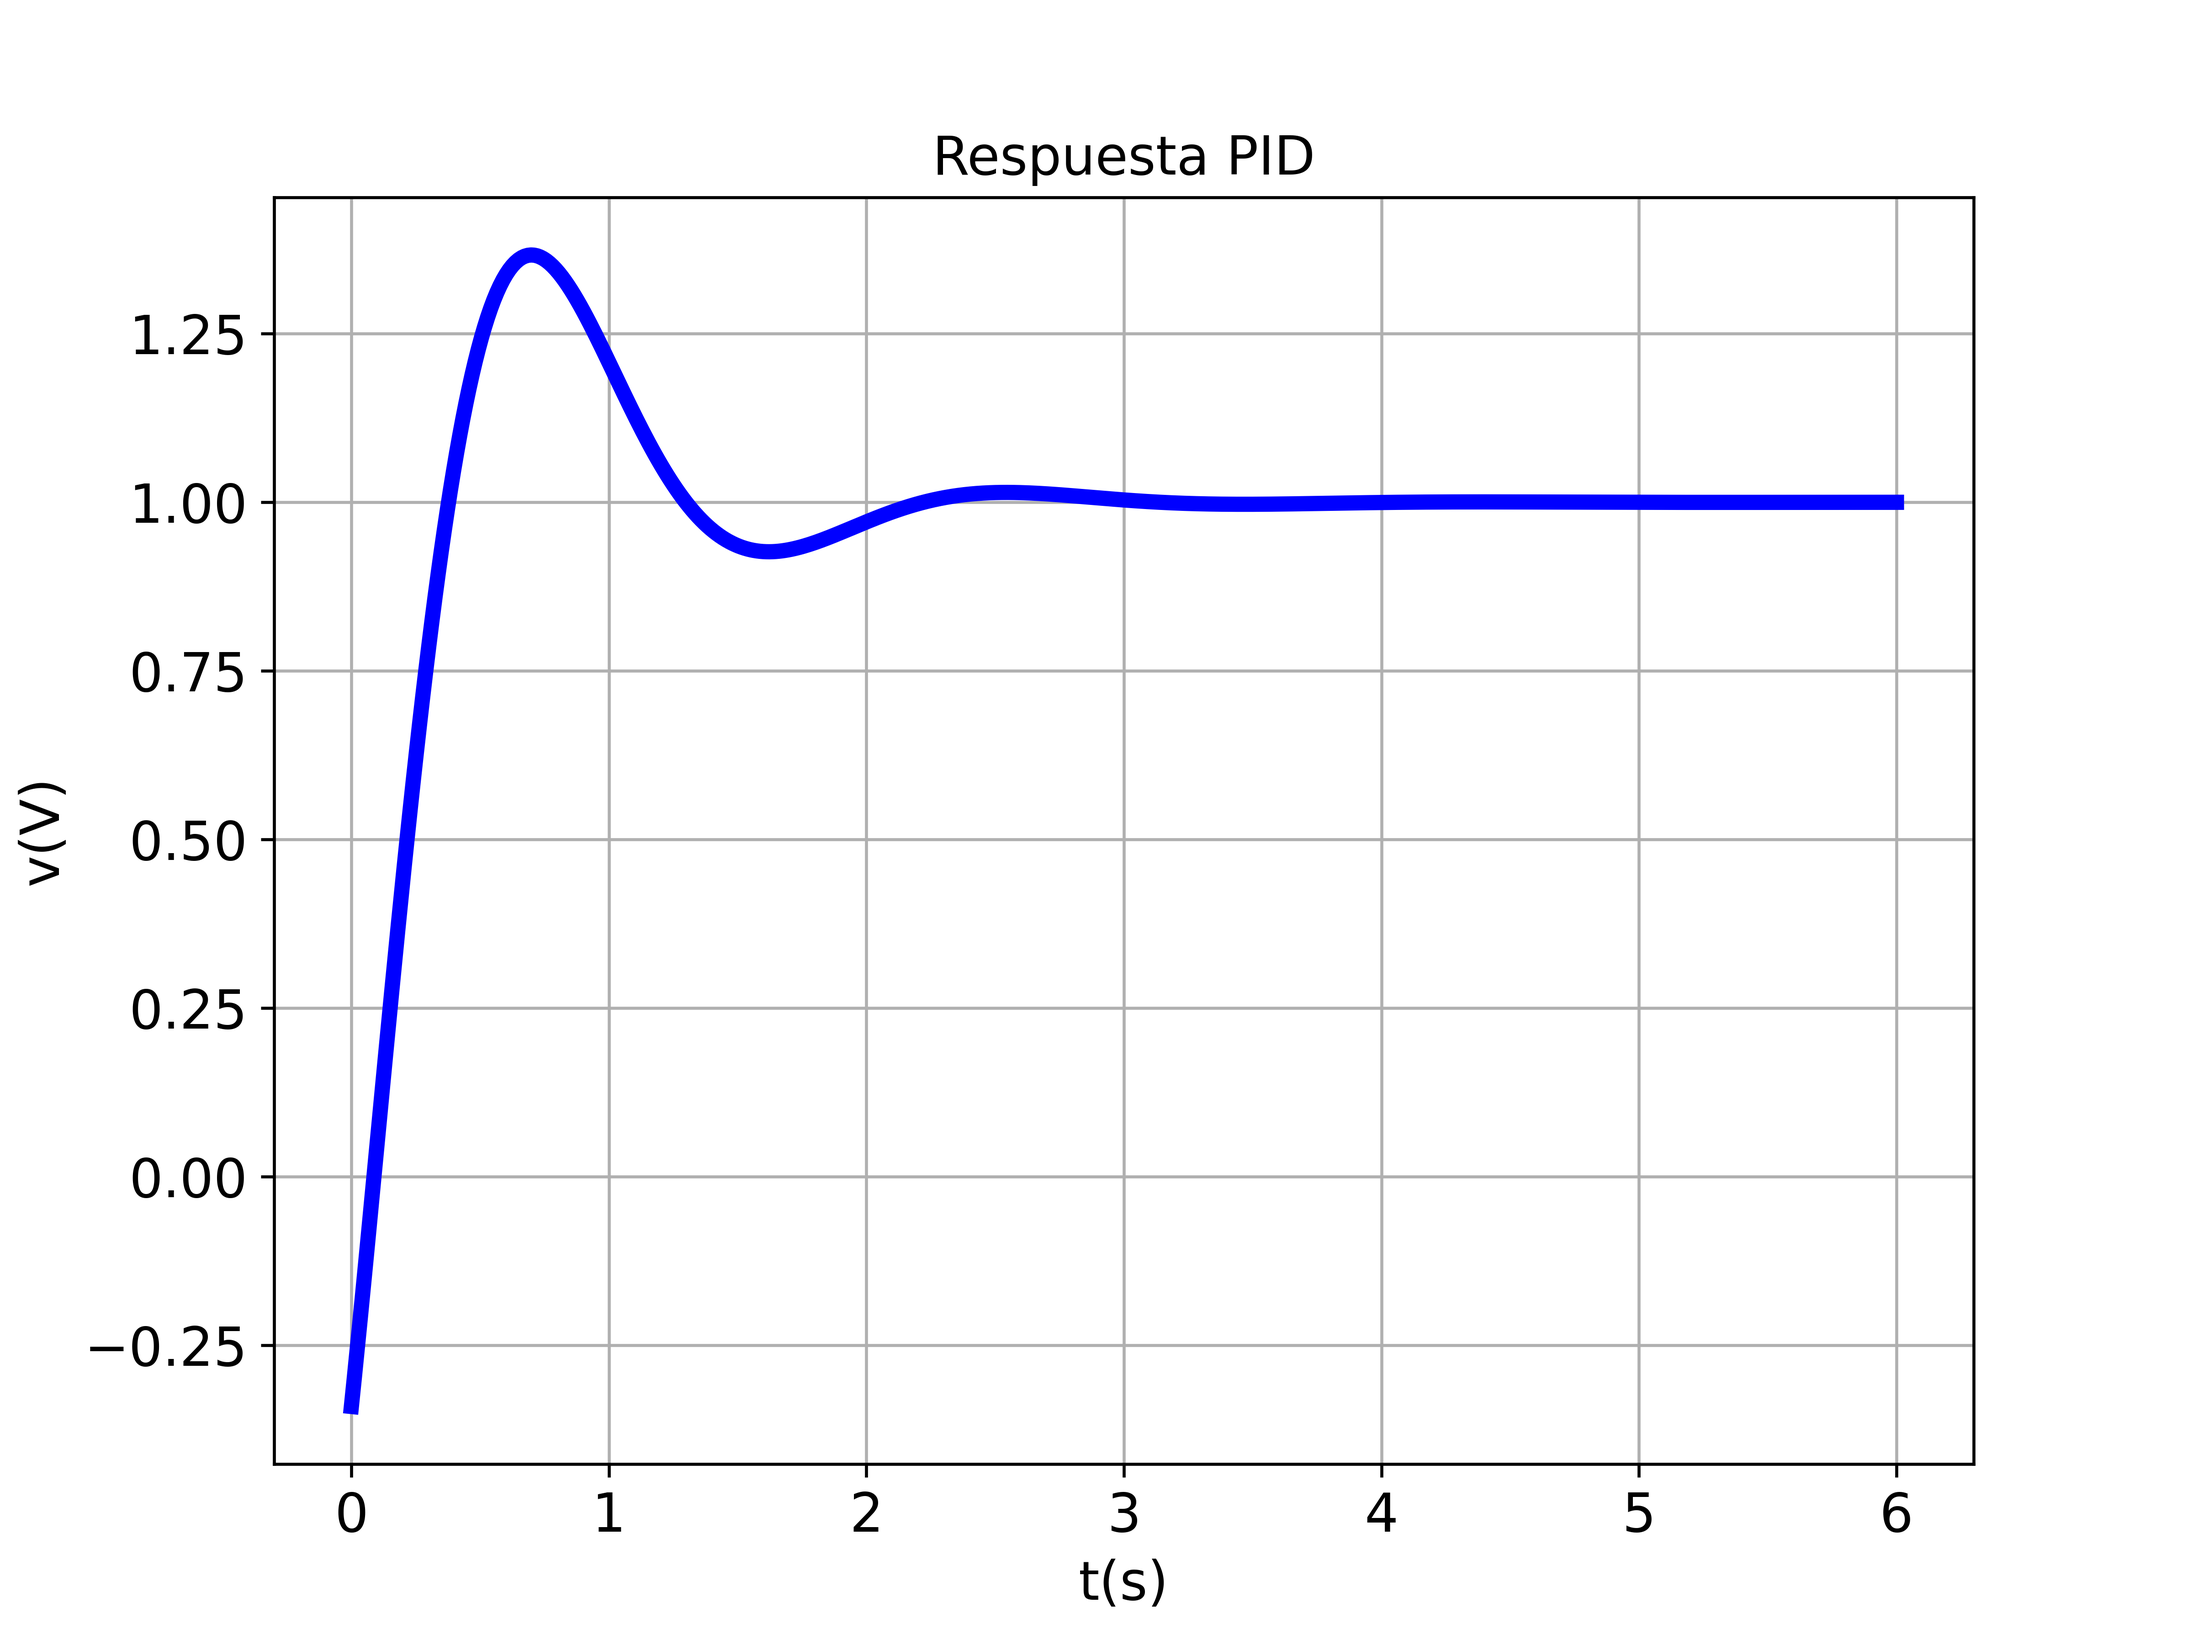
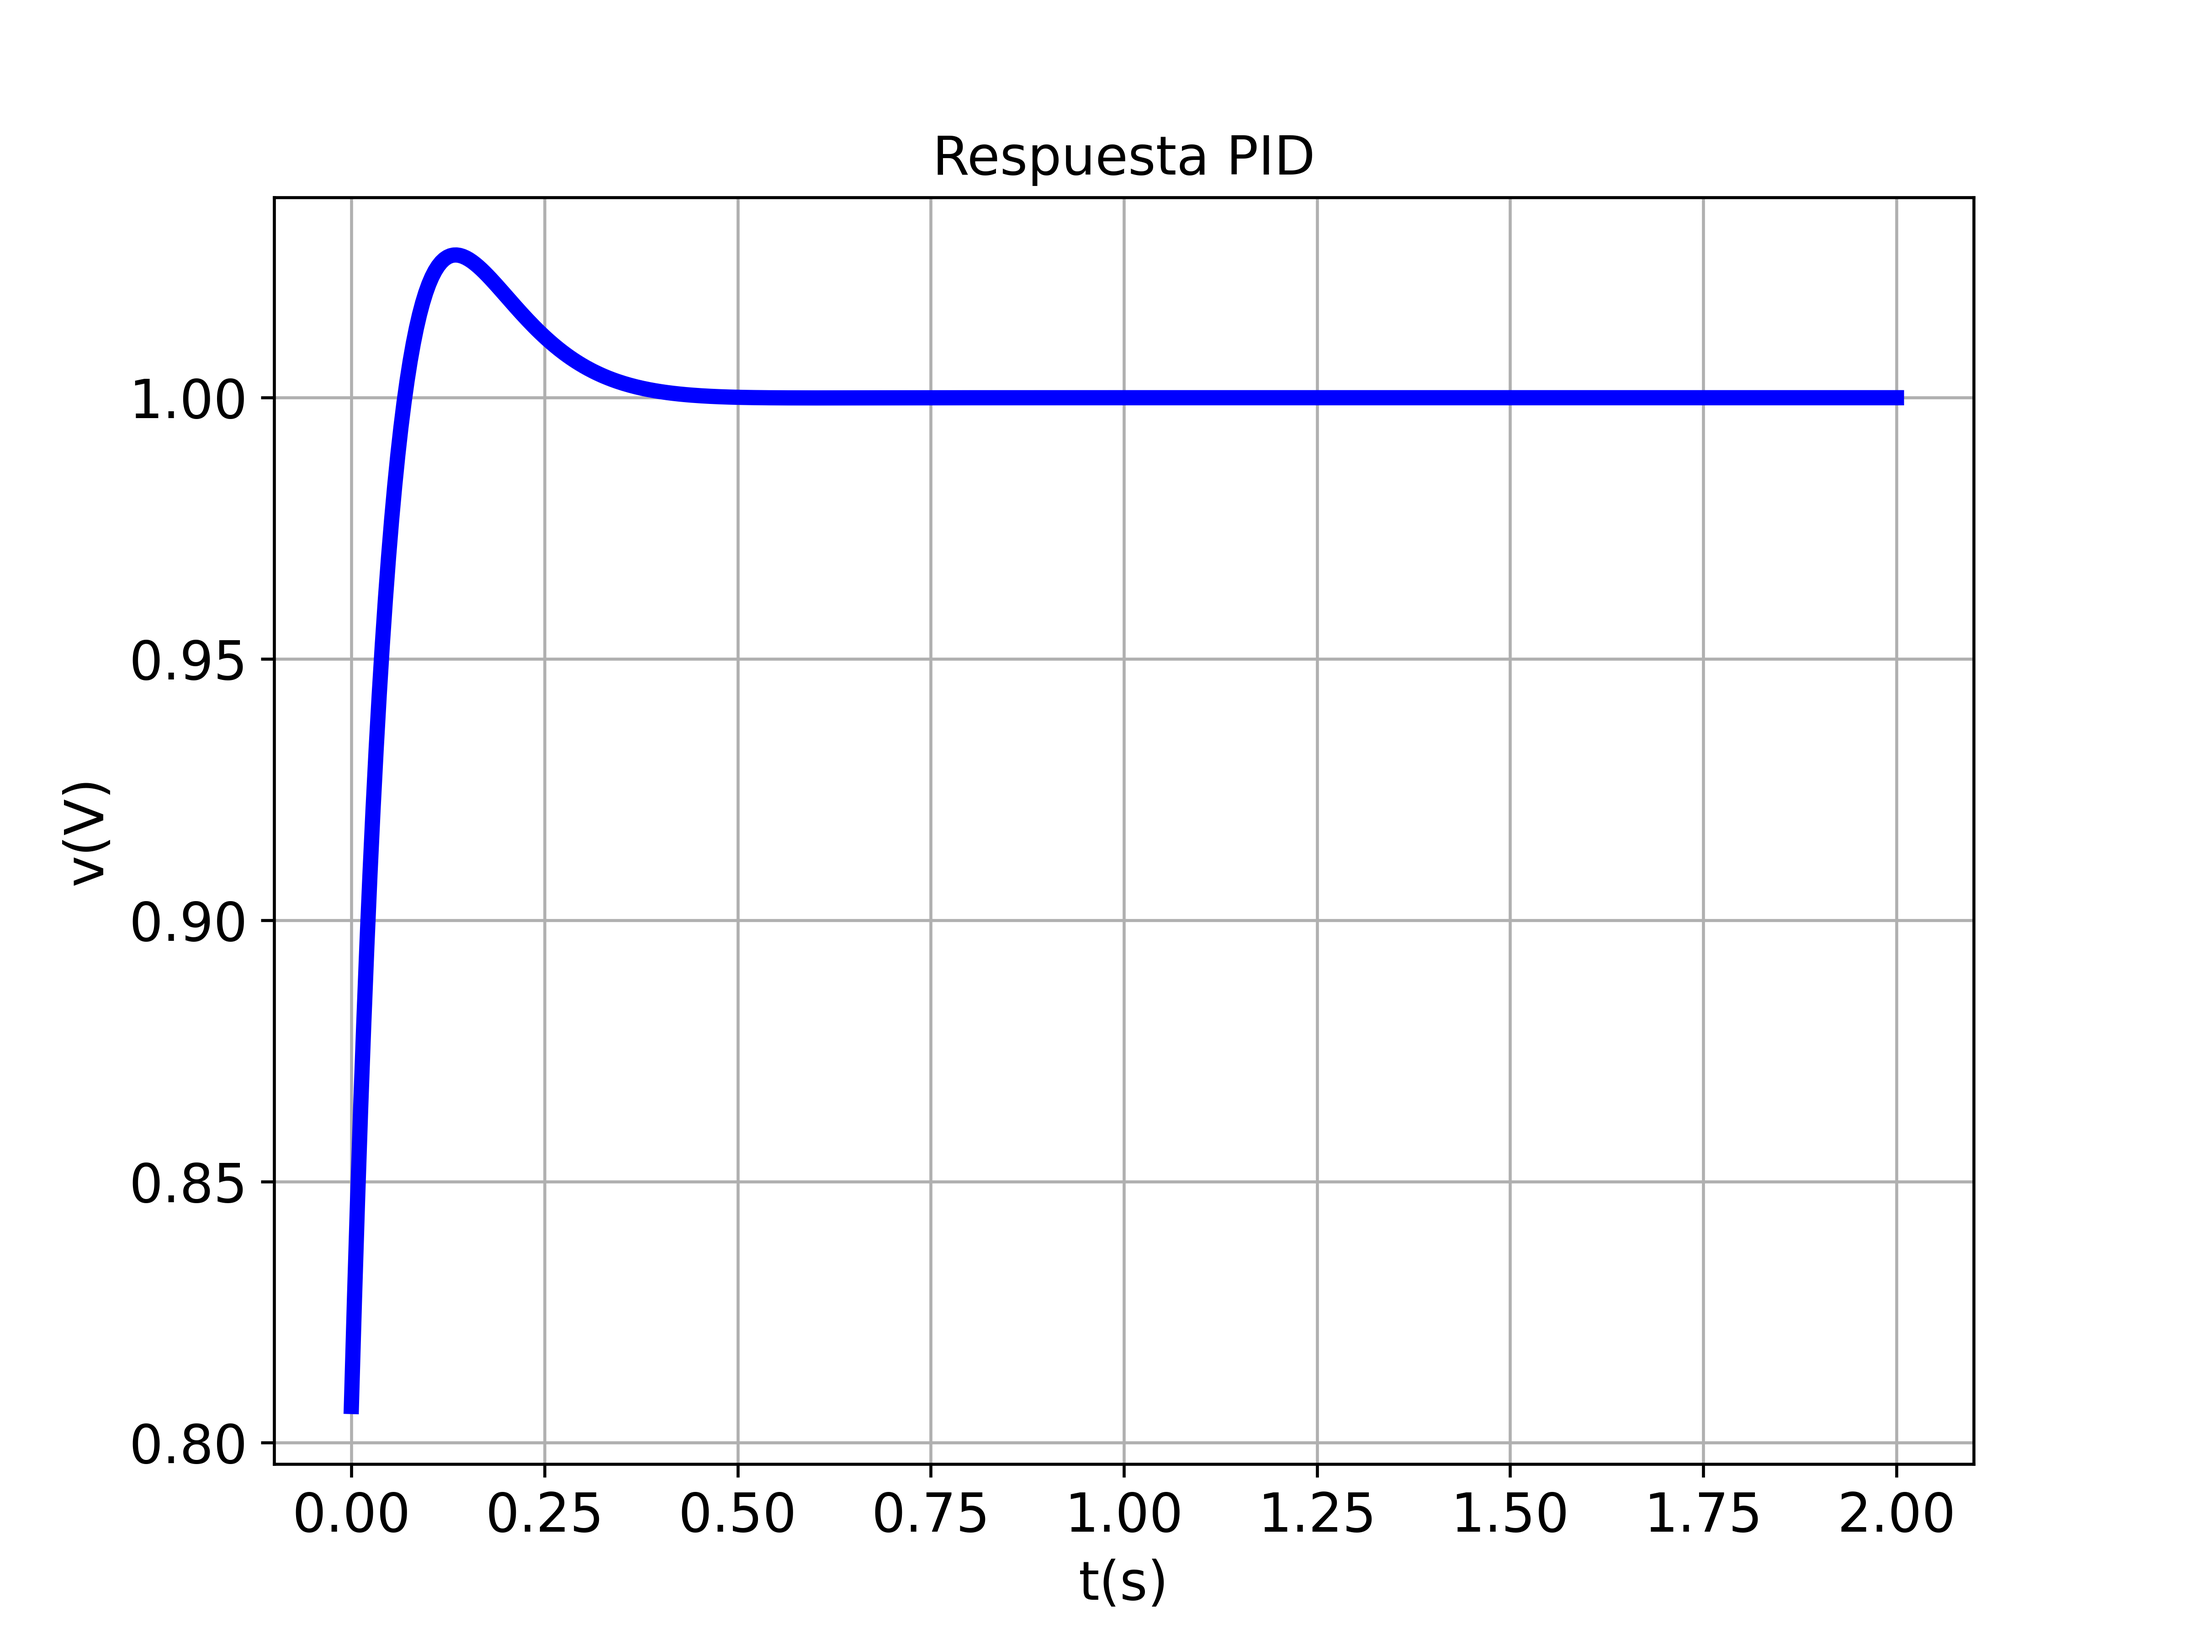
Arreglar problema con numero imaginario

diff --git a/server/controller.py b/server/controller.py
@@ -1,16 +1,16 @@
 import numpy as np
 
 def calc(mode,c,params,pwm):
-    k = 1.17
-    tau = 1.34
+    k = 3/255
+    tau = 0.4
     tr, tp, te, zita, omega = params[1], params[2], params[3], params[4], params[5]
     kp, ki, kd = 0, 0, 0
     
     
     if c == "PID":
-        p1 = np.sqrt(4*(omega**2)*(zita**2 + tau -1)-(4*omega*zita)+ 1)
-        a = -1*(p1 - 2*omega*zita + 1)/(2*(omega**2))
-        b = (p1 + 2*omega*zita - 1)/(2*(omega**2))
+        p1 = np.sqrt(4*(omega**2)*(zita**2 + tau -1 + 0j)-(4*omega*zita)+ 1)
+        a = np.real(-1*(p1 - 2*omega*zita + 1)/(2*(omega**2)))
+        b = np.real((p1 + 2*omega*zita - 1)/(2*(omega**2)))
         kc = (omega**2)/k
         kp = round(kc*(a+b),3)
         ki = round(kc,3)

diff --git a/server/graphs.py b/server/graphs.py
@@ -13,7 +13,7 @@ def make():
     ki = float(params["ki"])
     kd = float(params["kd"])
 
-    time = np.linspace(0,6,500)
+    time = np.linspace(0,2,500)
 
     num = [k]
     den = [tau, 1]
